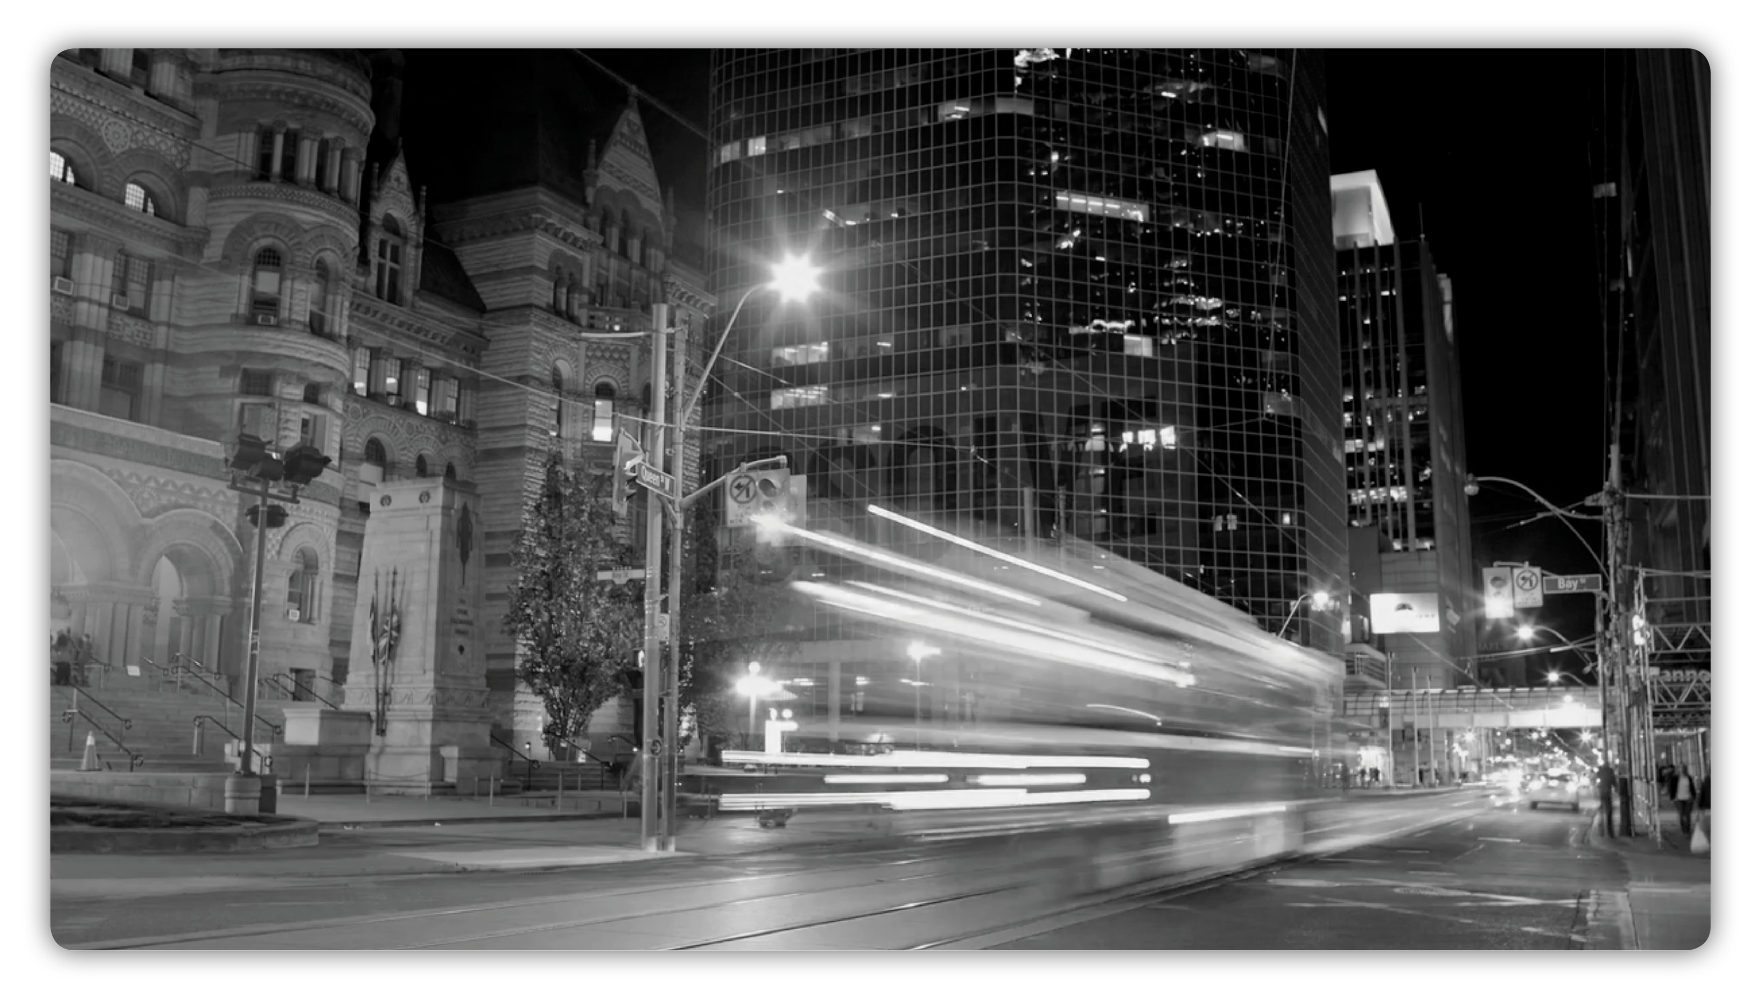
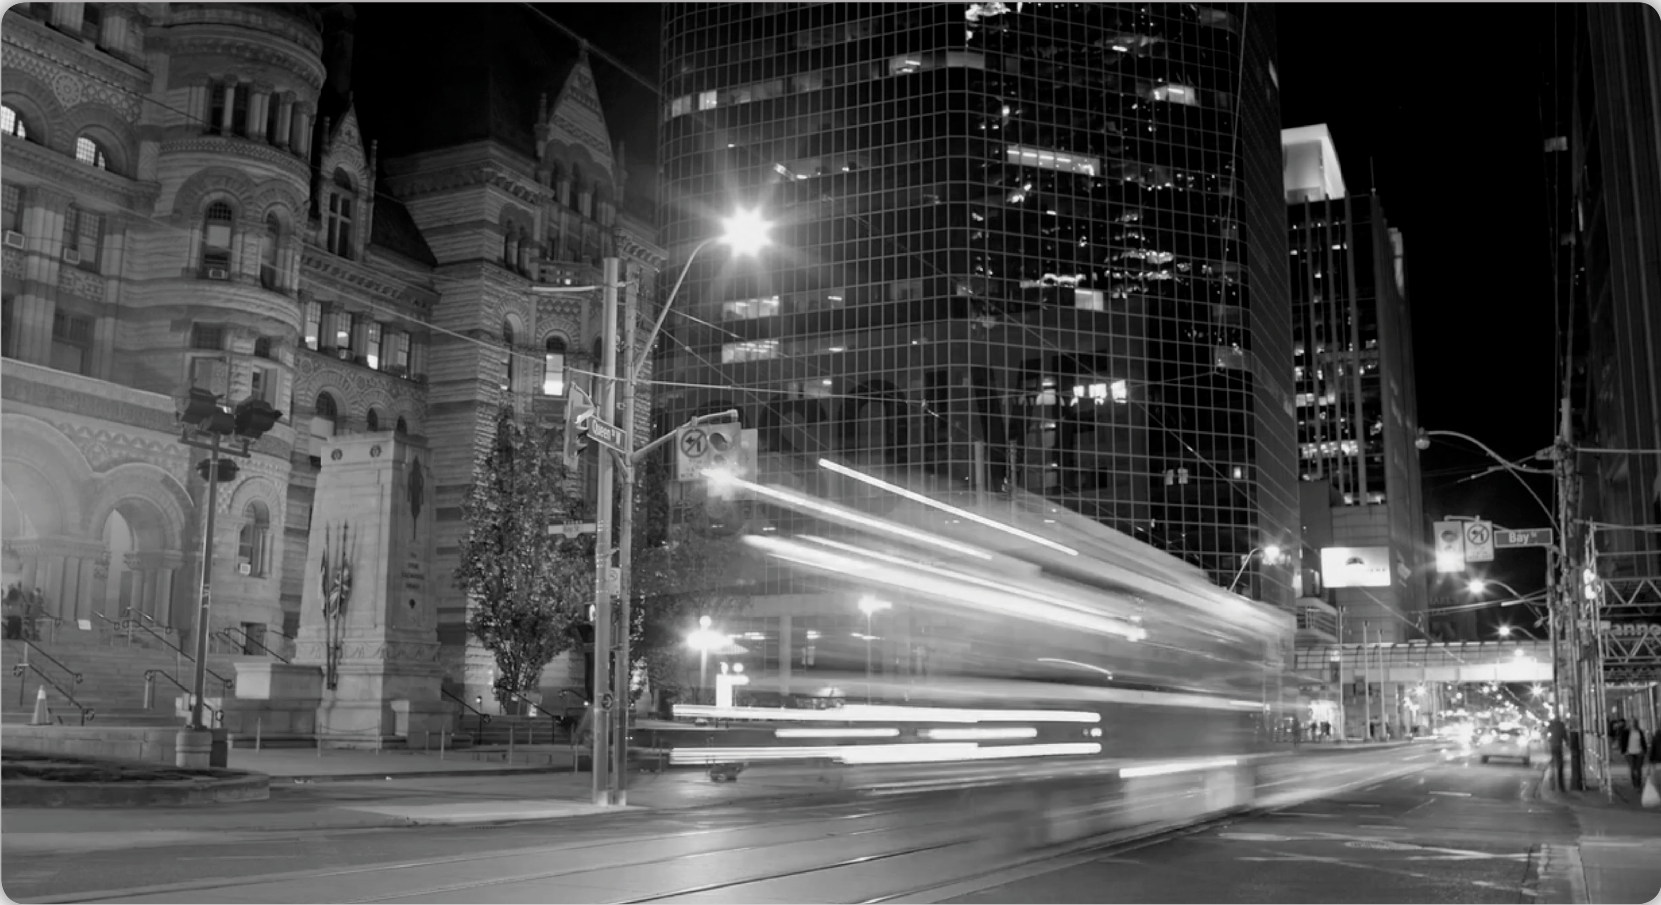
added new image for first slide

diff --git a/css/style.css b/css/style.css
@@ -192,8 +192,8 @@ img {
 
 /* Slider 1 styles*/
 .cd-slideshow > li:nth-of-type(1) .cd-slider-content .content-wrapper {
-/*  background: url(../img/BAM-slide-1.jpg);
-*/  background-size: contain;
+  background: url(../img/hp_banner.png);
+  background-size: contain;
   background-repeat: no-repeat;
   background-size: 100% 100%;
 }
@@ -208,8 +208,8 @@ img {
   color: #fff !important;
   text-align: right;
   opacity: 0.5;
-  font-size: 4em !important;
-  line-height: 1em;
+  font-size: 10em !important;
+  line-height: 0.8em;
 }
 /* Slider 2 styles*/
 #slide-2 .cd-slider-content .content-wrapper > .row {
